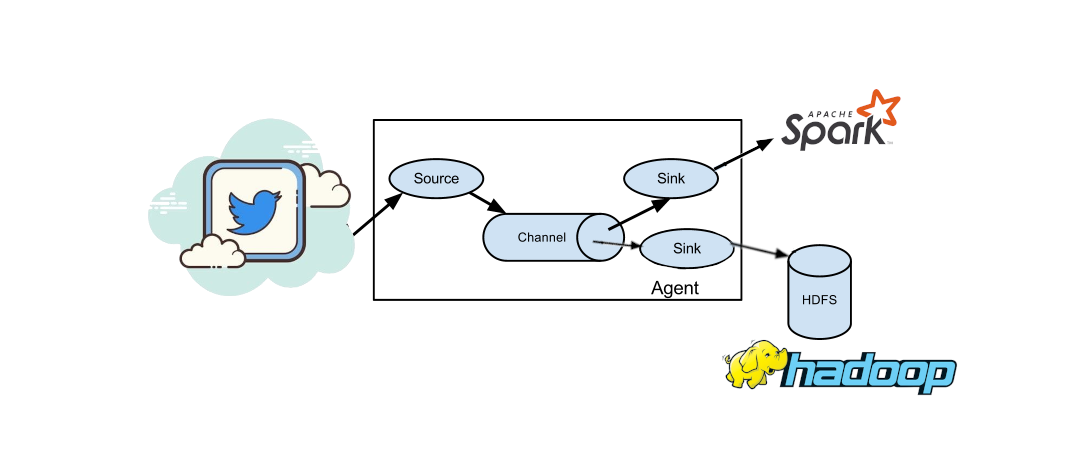
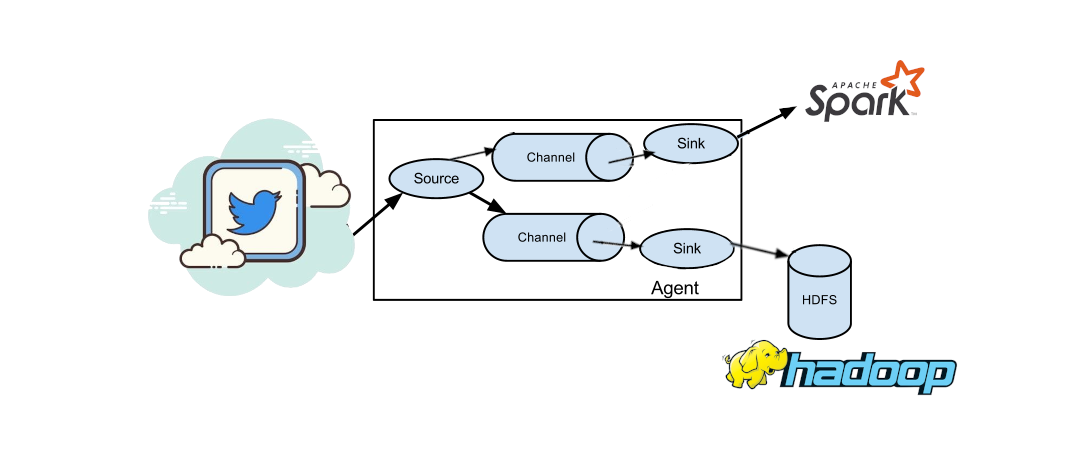
Corrigida figura 1 incluindo o segundo canal

Changed region(s): [[0.4278, 0.1244, 0.8556, 0.4978], [0.55, 0.4978, 0.5806, 0.5289]]

diff --git a/README.md b/README.md
@@ -182,6 +182,3 @@ http://flume.apache.org/releases/content/1.9.0/FlumeUserGuide.html#memory-channe
 https://spark.apache.org/docs/2.2.0/streaming-flume-integration.html
 https://spark.apache.org/docs/2.2.0/api/python/pyspark.streaming.html#pyspark.streaming.DStream
 +Cap10 do curso de Spark.
-
-
-Corrigir figura
